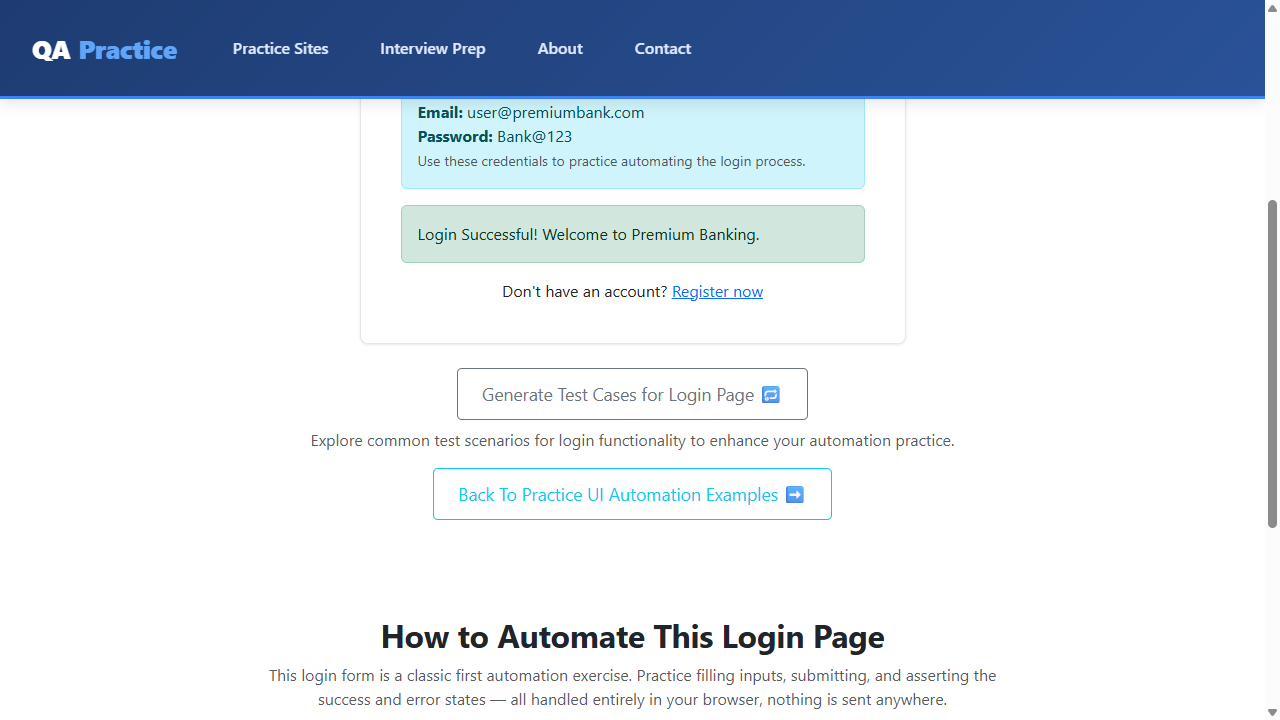
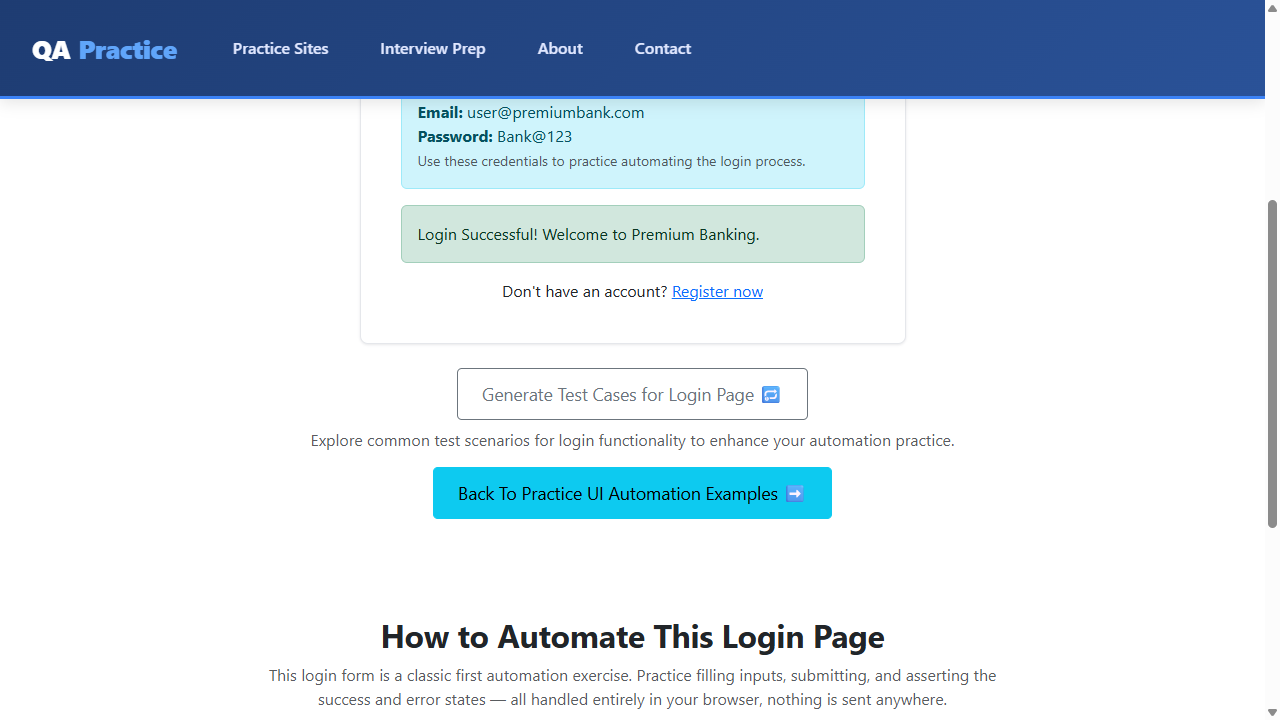
Armazenando valores

Changed region(s): [[0.3125, 0.6417, 0.6562, 0.7333]]

diff --git a/tests/interactingWithElements.js b/tests/interactingWithElements.js
@@ -1,0 +1,110 @@
+const { chromium } = require('playwright');
+
+// Importa o Chromium do Playwright para controlar o navegador.
+
+
+
+(async() => {
+
+    // Abre o navegador visivelmente.
+    // slowMo: 50 adiciona um pequeno intervalo entre as ações.
+    const browser = await chromium.launch({ headless: false, slowMo: 50 });
+
+    // Cria um contexto isolado para a sessão do navegador.
+    const context = await browser.newContext();
+
+    // Abre uma nova página no navegador.
+    const page = await context.newPage();
+
+    // Acessa a página de login.
+    await page.goto('https://demo.realworld.show/login');
+
+    // Localiza o campo de e-mail e preenche com o endereço informado.
+    await page.fill('input[type = "email"]', 'teste5889@email.com');
+
+    // Pressiona Tab para mudar o foco para o próximo campo.
+    await page.press('input[type = "email"]', 'Tab');
+
+    // Digita a senha no campo correspondente.
+    await page.type('input[type = "password"]', 'test123');
+
+    // Clica no botão Sign in com configurações específicas.
+    // position: define a posição do clique dentro do elemento.
+    // button: define o botão do mouse utilizado.
+    // modifiers: permite usar teclas modificadoras, como Shift.
+    // force: força a ação mesmo se houver alguma condição de interação.
+    // timeout: define o tempo máximo de espera em milissegundos.
+    // await page.click('form >> "Sign in"', {
+    //     position: { x: 0, y: 0 },
+    //     button: 'left',
+    //     modifiers: ['Shift'],
+    //     force: true,
+    //     timeout: 45000
+    // });
+
+    // Realiza um duplo clique no botão Sign in.
+    // await page.dblclick('form >> "Sign in"');
+
+    // Coloca o foco no elemento Sign in, sem clicar nele.
+    await page.focus('form >> "Sign in"');
+    await page.click('form >> "Sign in"');
+
+    // Fecha o navegador após executar as ações.
+    await browser.close();
+})();
+
+
+
+
+
+/*
+// Cria uma função assíncrona para executar as ações do teste.
+(async() => {
+
+    // Abre o navegador visivelmente na tela.
+    // headless: false permite acompanhar a execução.
+    // slowMo: 50 desacelera as ações para facilitar a visualização.
+    //const browser = await chromium.launch({ headless: false, slowMo: 50 });
+
+    // Cria um contexto isolado para a sessão do navegador.
+    //const context = await browser.newContext();
+
+    // Cria uma nova página dentro do contexto.
+    //const page = await context.newPage();
+
+    // Acessa a aplicação TodoMVC.
+  //  await page.goto('https://demo.realworld.show/login');
+
+    // Localiza o campo de nova tarefa pela classe CSS .new-todo.
+    // Preenche o campo com o texto Task_1.
+    await page.fill('.new-todo', 'Task_1');
+
+    // Pressiona Enter para adicionar a primeira tarefa.
+    await page.press('.new-todo', 'Enter');
+
+    // Preenche novamente o campo com o texto Task_2.
+    await page.fill('.new-todo', 'Task_2');
+
+    // Pressiona Enter para adicionar a segunda tarefa.
+    await page.press('.new-todo', 'Enter');
+
+    // Localiza a primeira caixa de seleção com a classe .toggle
+    // e marca a tarefa correspondente como concluída.
+    await page.check('.toggle');
+
+    // Localiza todas as caixas de seleção que possuem a classe .toggle.
+    // O resultado é uma lista de elementos encontrados na página.
+    const elements = await page.$$('.toggle');
+
+    // Percorre todos os elementos encontrados na lista.
+    elements.forEach(element => {
+
+        // Marca cada caixa de seleção como concluída.
+        // Este comando é assíncrono; o ideal é aguardar sua execução.
+        element.check();
+
+    });
+
+
+
+})();*/

diff --git a/tests/ExtractAttributes.js b/tests/ExtractAttributes.js
@@ -1,0 +1,86 @@
+
+// Importa o Chromium do Playwright para controlar o navegador
+const { chromium } = require('playwright');
+
+// Inicia uma função assíncrona para executar os comandos em sequência
+(async () => {
+
+    // Abre o navegador Chromium
+   const browser = await chromium.launch({ headless: false, slowMo: 50 });
+
+    // Cria um novo contexto (sessão isolada do navegador)
+    const context = await browser.newContext();
+
+    // Abre uma nova página no navegador
+    const page = await context.newPage();
+
+    // Acessa a página de login da aplicação
+    await page.goto('https://demo.realworld.show/login');
+
+    // Localiza o campo de e-mail e preenche com o valor informado
+    await page.fill('input[type = "email"]', 'teste5889@email.com');
+
+    // Pressiona a tecla Tab para sair do campo de e-mail e avançar
+    await page.press('input[type = "email"]', 'Tab');
+
+    // Localiza o campo de senha e digita o valor informado
+    await page.type('input[type = "password"]', 'test123');
+
+    // Localiza e clica no botão Sign in para realizar o login
+    await page.click('form >> "Sign in"');
+
+    // Aguarda 5 segundos para permitir que a página carregue
+    await page.waitForTimeout(5000);
+
+    // Localiza o elemento da marca (logo) e captura somente seu texto
+    const logoText = await page.$eval('(//a[@class="preview-link"]/h1)[1]', el => el.innerText);
+
+    // Exibe no console o texto capturado da logo
+    console.log('logoText: ' + logoText);
+
+    // Localiza todos os elementos com a classe tag-default e conta quantos existem
+    const popularTagsCount = await page.$$eval('.preview-link', el => el.length);
+
+    // Exibe no console a quantidade de tags encontradas
+    console.log('popularTagsCount: ' + popularTagsCount);
+
+    /*// Localiza a logo e captura o endereço do link (href) diretamente pelo elemento HTML
+    const logoHref = await page.$eval('.navbar-brand', el => el.href);
+
+    // Exibe no console o endereço capturado
+    console.log('logoHref: ' + logoHref);
+
+    // Localiza todos os elementos com a classe tag-default e conta quantos existem
+    const popularTagsCount = await page.$$eval('.preview-link', el => el.length);
+
+    // Exibe no console a quantidade de tags encontradas
+    console.log('popularTagsCount: ' + popularTagsCount);
+
+    // Captura o conteúdo textual do elemento navbar-brand
+    const content = await page.textContent('.navbar-brand');
+
+    // Exibe no console o conteúdo capturado
+    console.log('content: ' + content);
+
+    // Captura o texto visível do elemento navbar-brand
+    const text = await page.innerText('.navbar-brand');
+
+    // Exibe no console o texto visível capturado
+    console.log('text: ' + text);
+
+    // Captura o conteúdo HTML interno do elemento feed-toggle
+    const html = await page.innerHTML('.feed-toggle');
+
+    // Exibe no console o HTML capturado
+    console.log('html: ' + html);
+
+    // Captura o valor do atributo href do elemento navbar-brand
+    const href = await page.getAttribute('.navbar-brand', 'href');
+
+    // Exibe no console o valor do atributo href
+    console.log('href: ' + href);*/
+
+    // Fecha o navegador após finalizar todas as ações
+    await browser.close();
+
+})();

diff --git a/tests/identifyElements.js b/tests/identifyElements.js
@@ -8,8 +8,8 @@ const senha = "Bank@123";
 
 (async () => {
 
-    // Abre o navegador visivelmente na tela.
-    const browser = await chromium.launch({ headless: false });
+    // Abre o navegador visivelmente na tela. SlowMo: Para atrasar um pouco o teste
+    const browser = await chromium.launch({ headless: false, slowMo: 50});
     // Cria uma sessão isolada do navegador.
     const context = await browser.newContext();
     // Cria uma página dentro da sessão.
